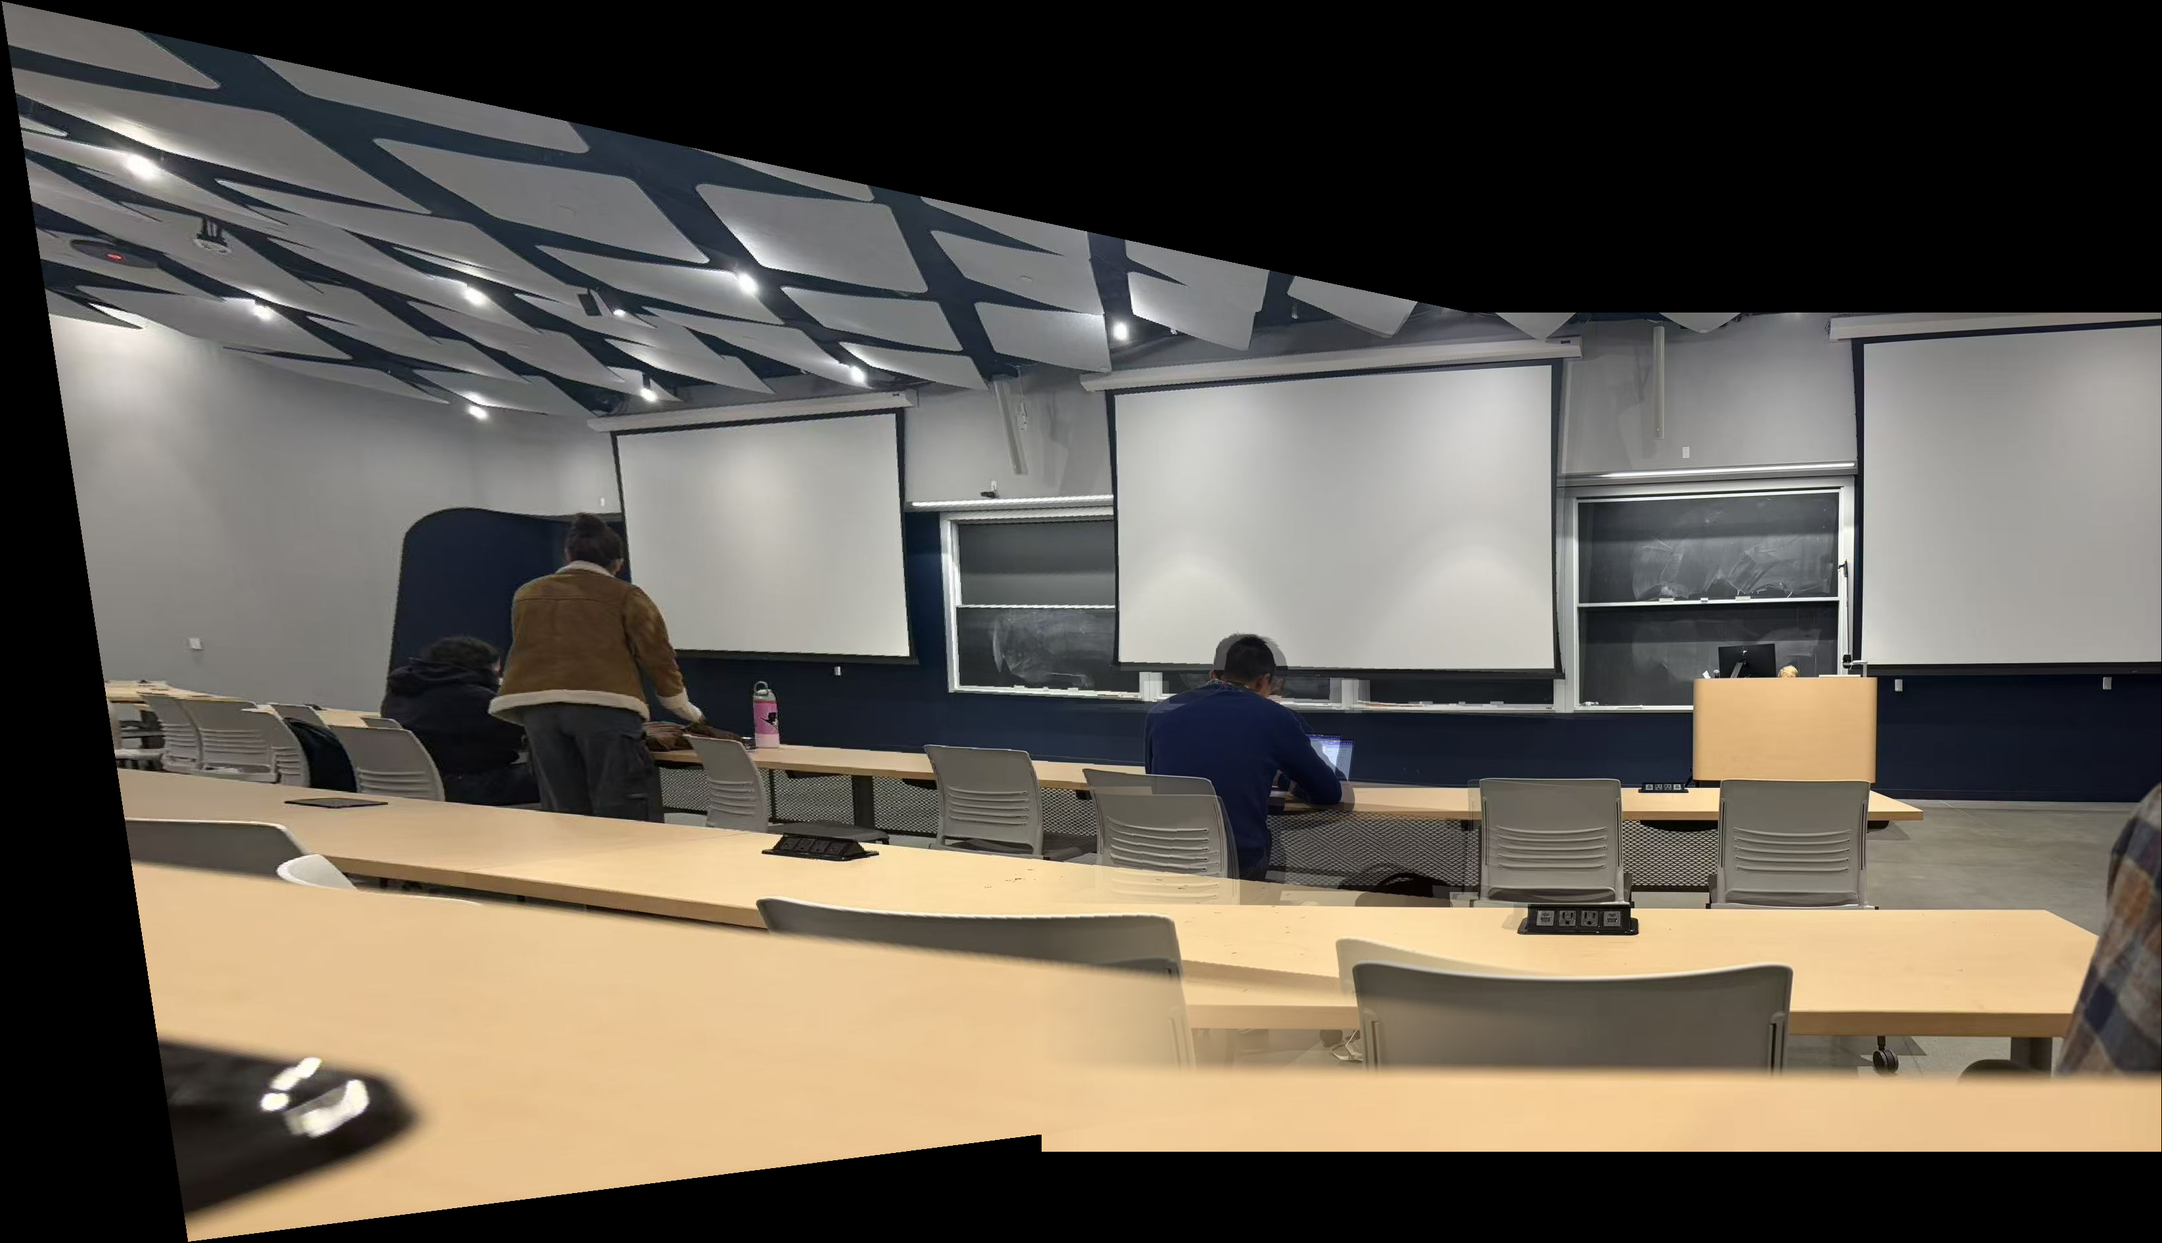
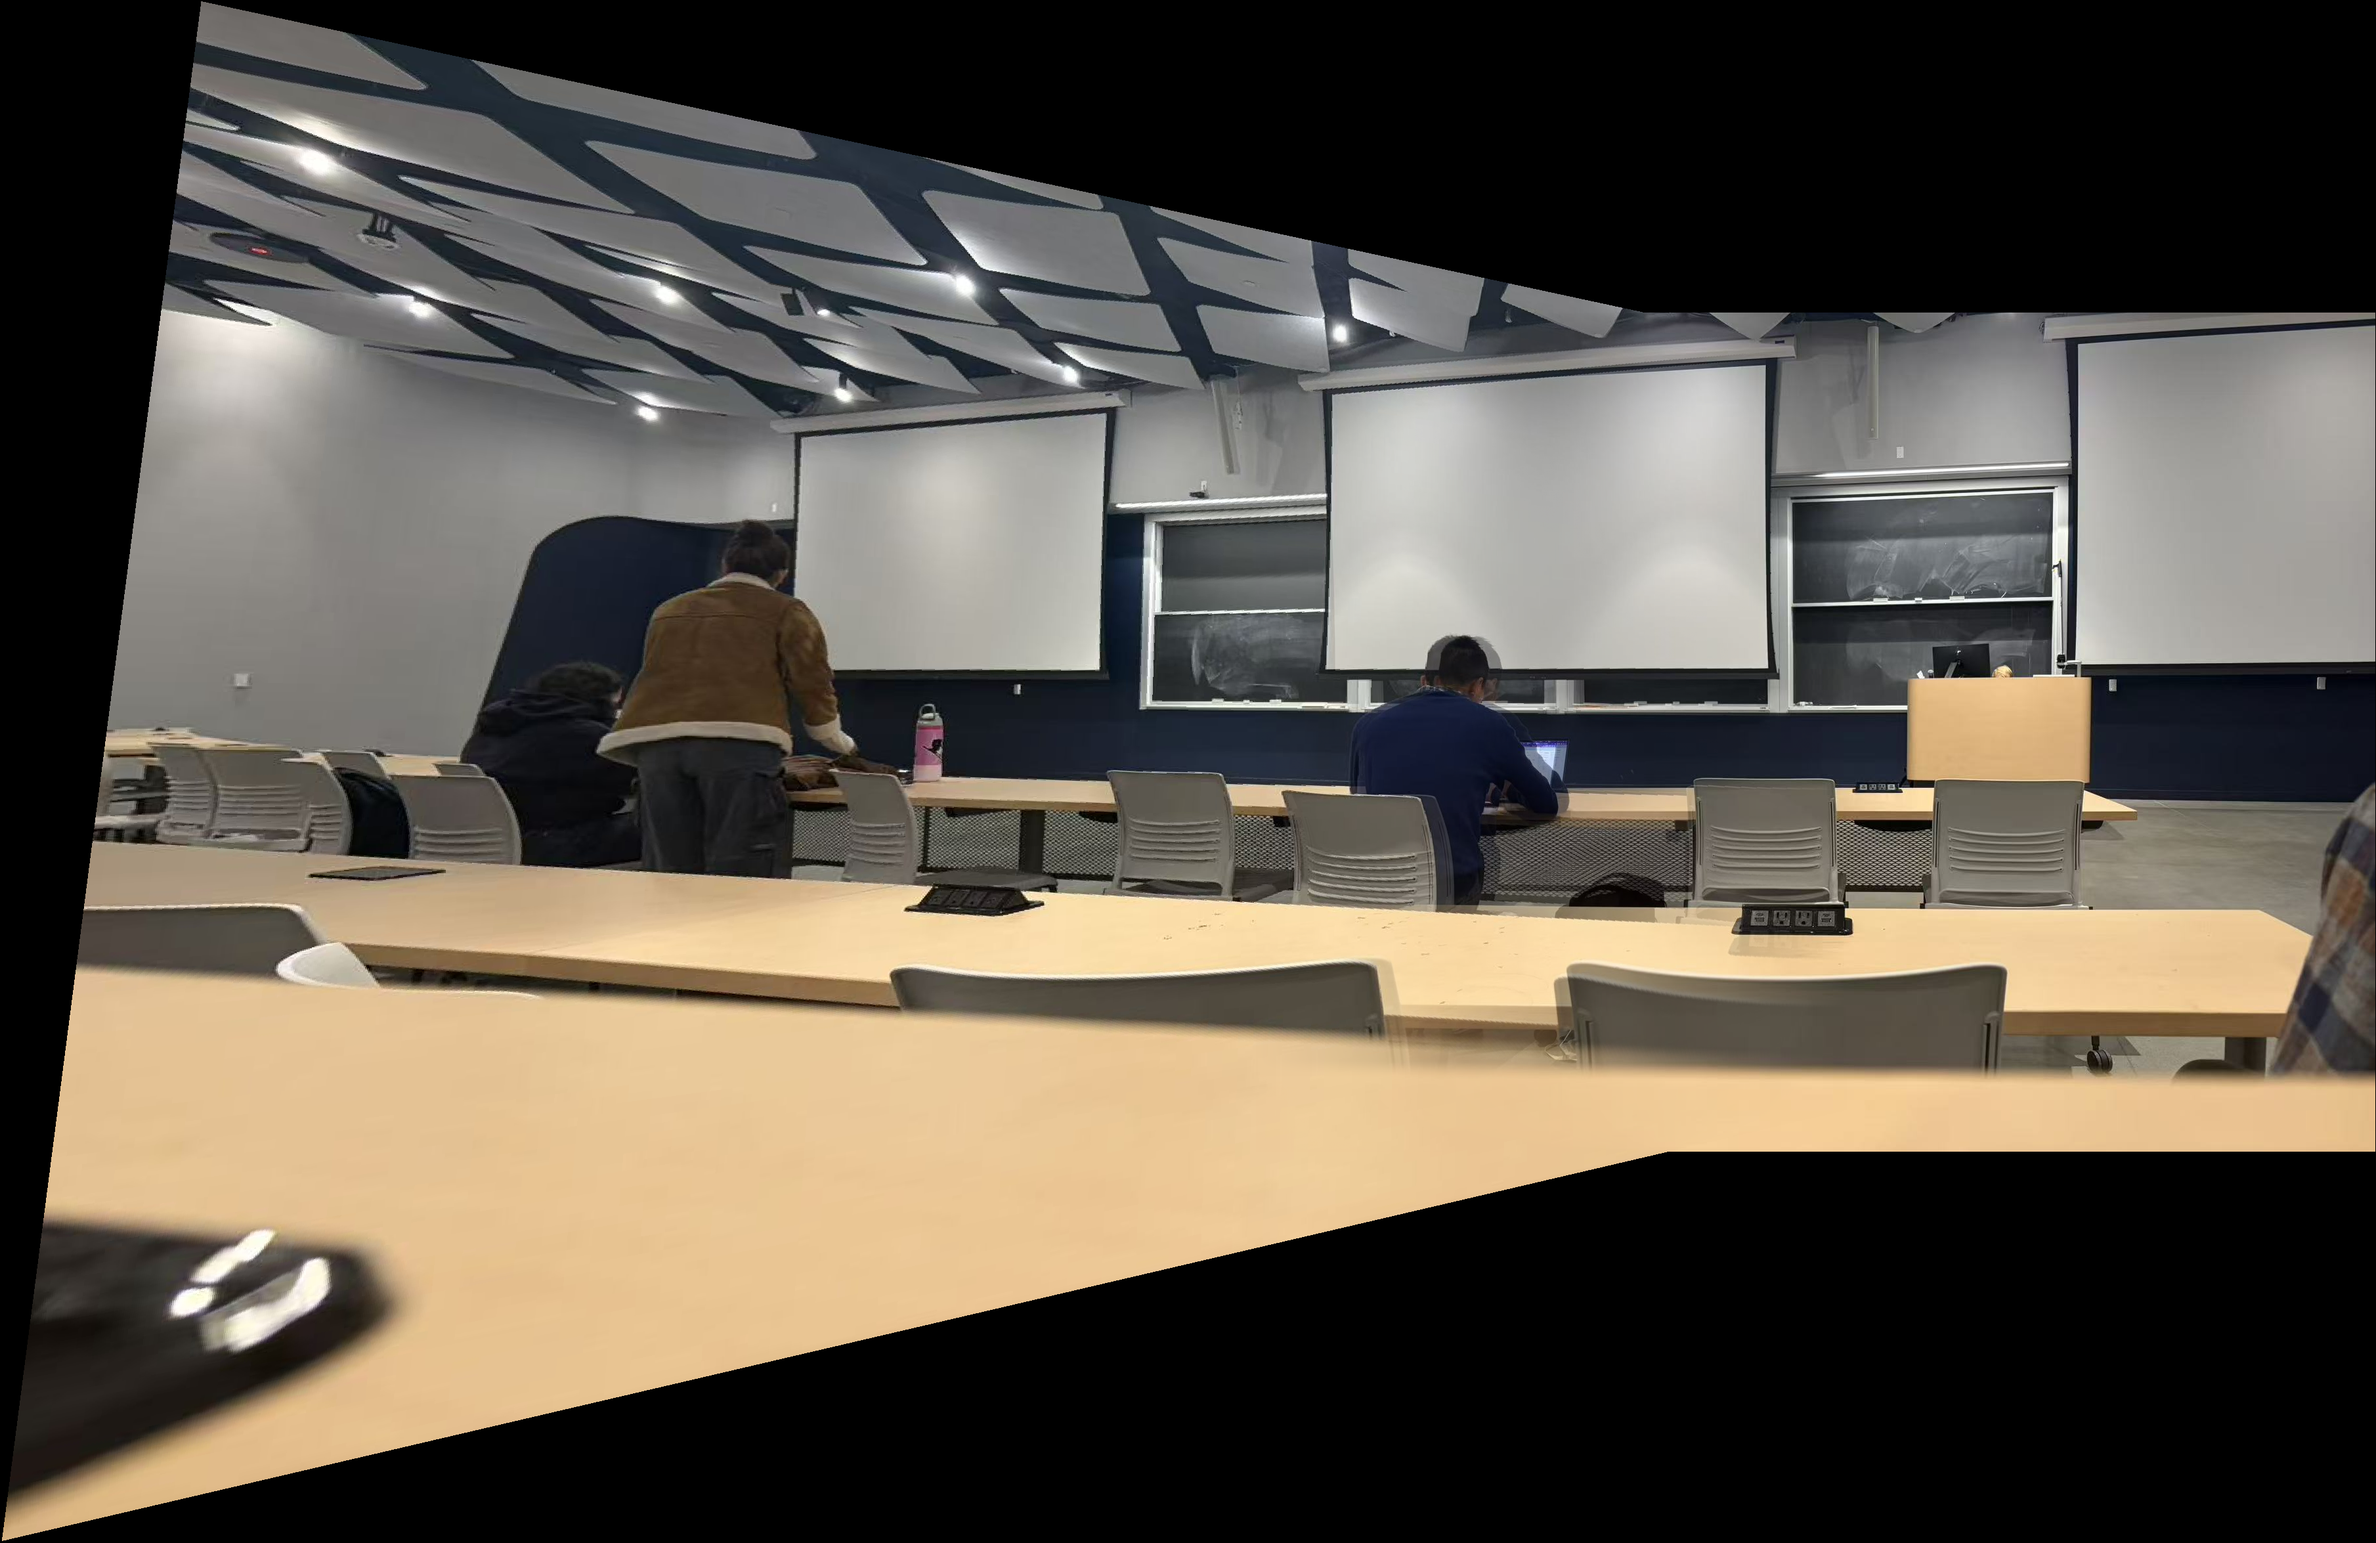
partA

diff --git a/4/partA/index.html b/4/partA/index.html
@@ -331,7 +331,7 @@
                     <figure><img src="./media/A3/hill/canvasNe.png" alt="Three hillside images aligned using nearest-neighbor interpolation"><figcaption>Nearest-neighbor canvas</figcaption></figure>
                     <figure><img src="./media/A3/hill/canvasBi.png" alt="Three hillside images aligned using bilinear interpolation"><figcaption>Bilinear canvas</figcaption></figure>
                     <figure><img src="./media/A3/hill/canvas.png" alt="Updated hillside bilinear warp output on the shared canvas"><figcaption>Updated canvas · bilinear</figcaption></figure>
-                    </div><div class="image-grid">
+                    <div class="image-grid"></div>
                     <figure><img src="./media/A3/hill/warped_im1.png" alt="First hillside image in the reference canvas"><figcaption>Reference image · warped image 1</figcaption></figure>
                     <figure><img src="./media/A3/hill/warped_im2.png" alt="Second hillside image warped into the reference frame"><figcaption>Aligned image · warped image 2</figcaption></figure>
                     <figure><img src="./media/A3/hill/warped_im3.png" alt="Third hillside image warped into the reference frame"><figcaption>Aligned image · warped image 3</figcaption></figure>
